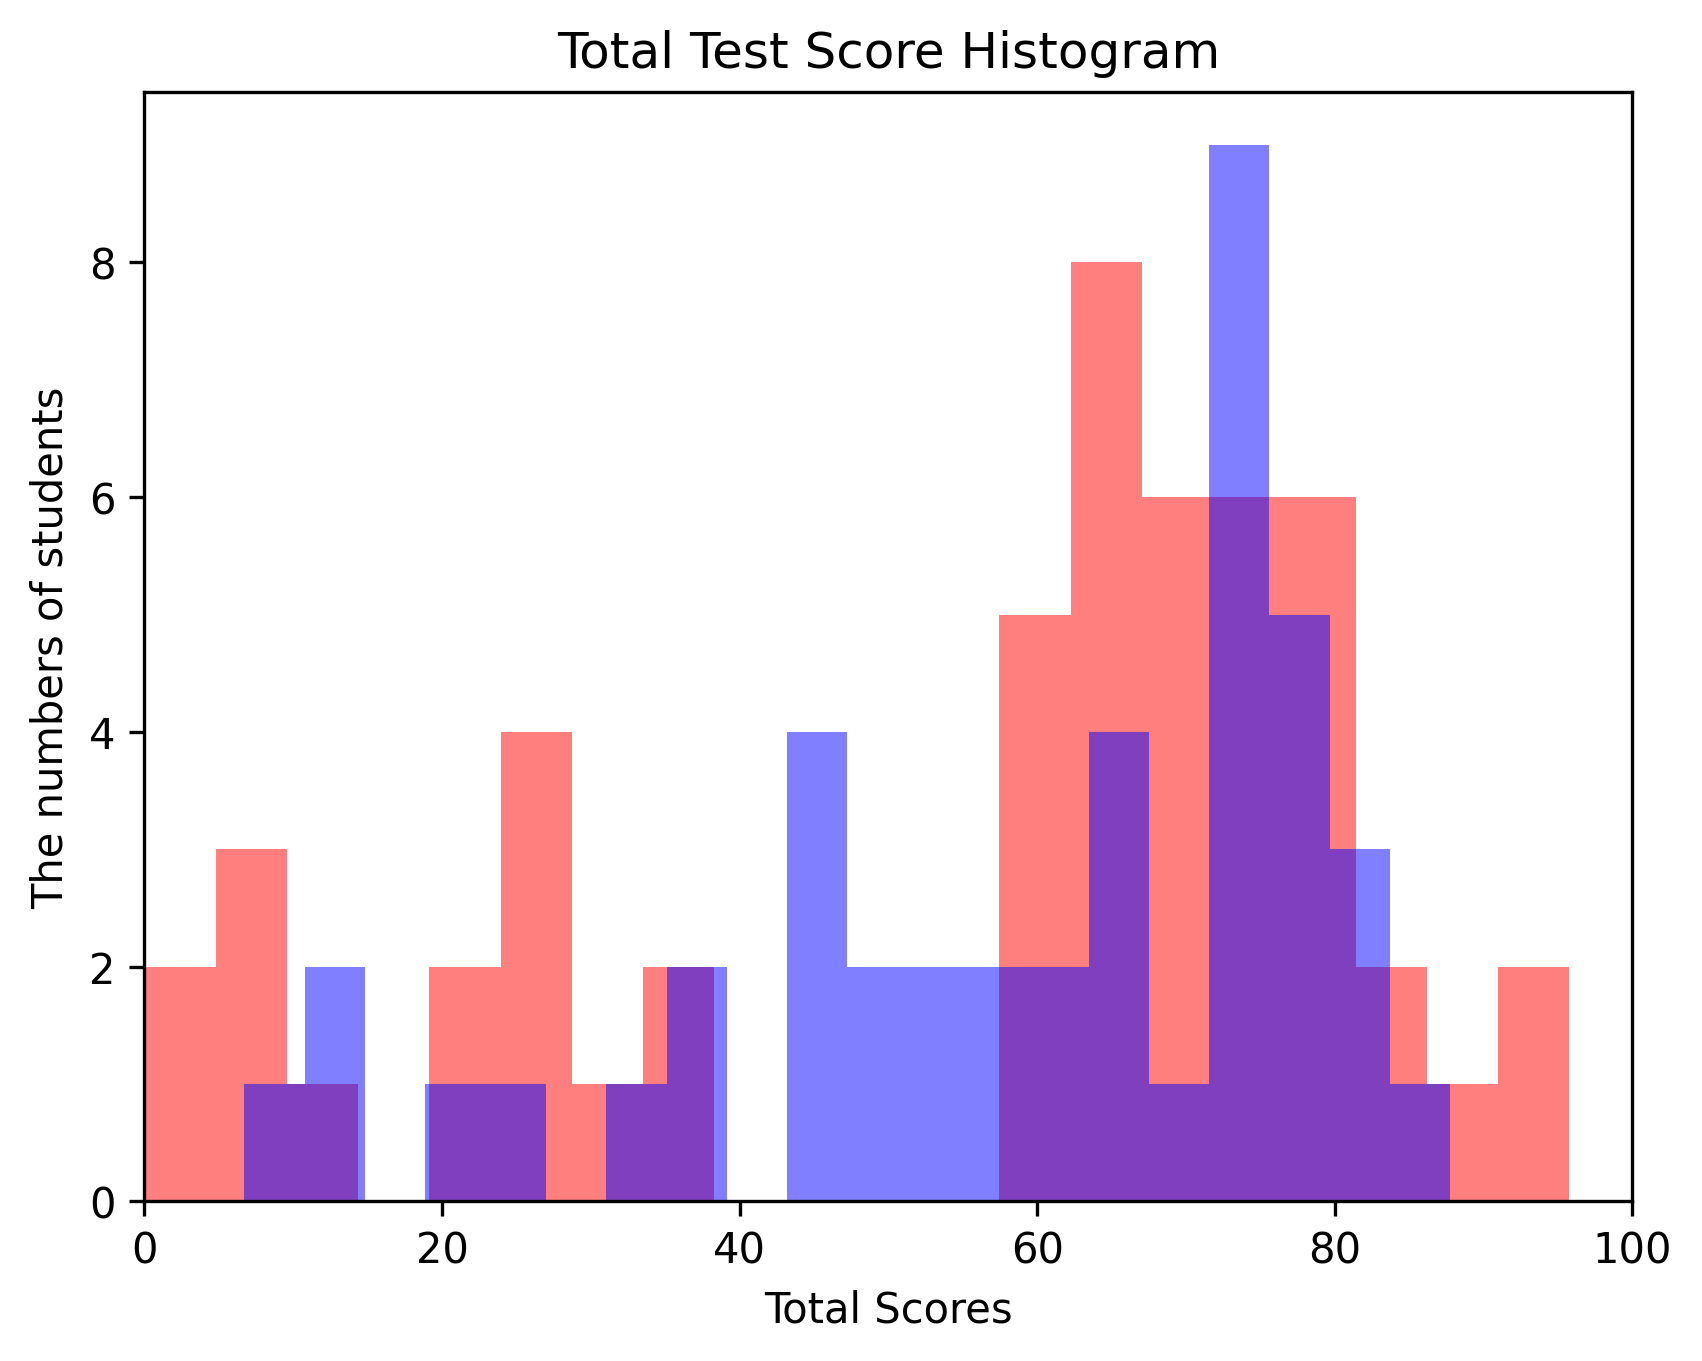
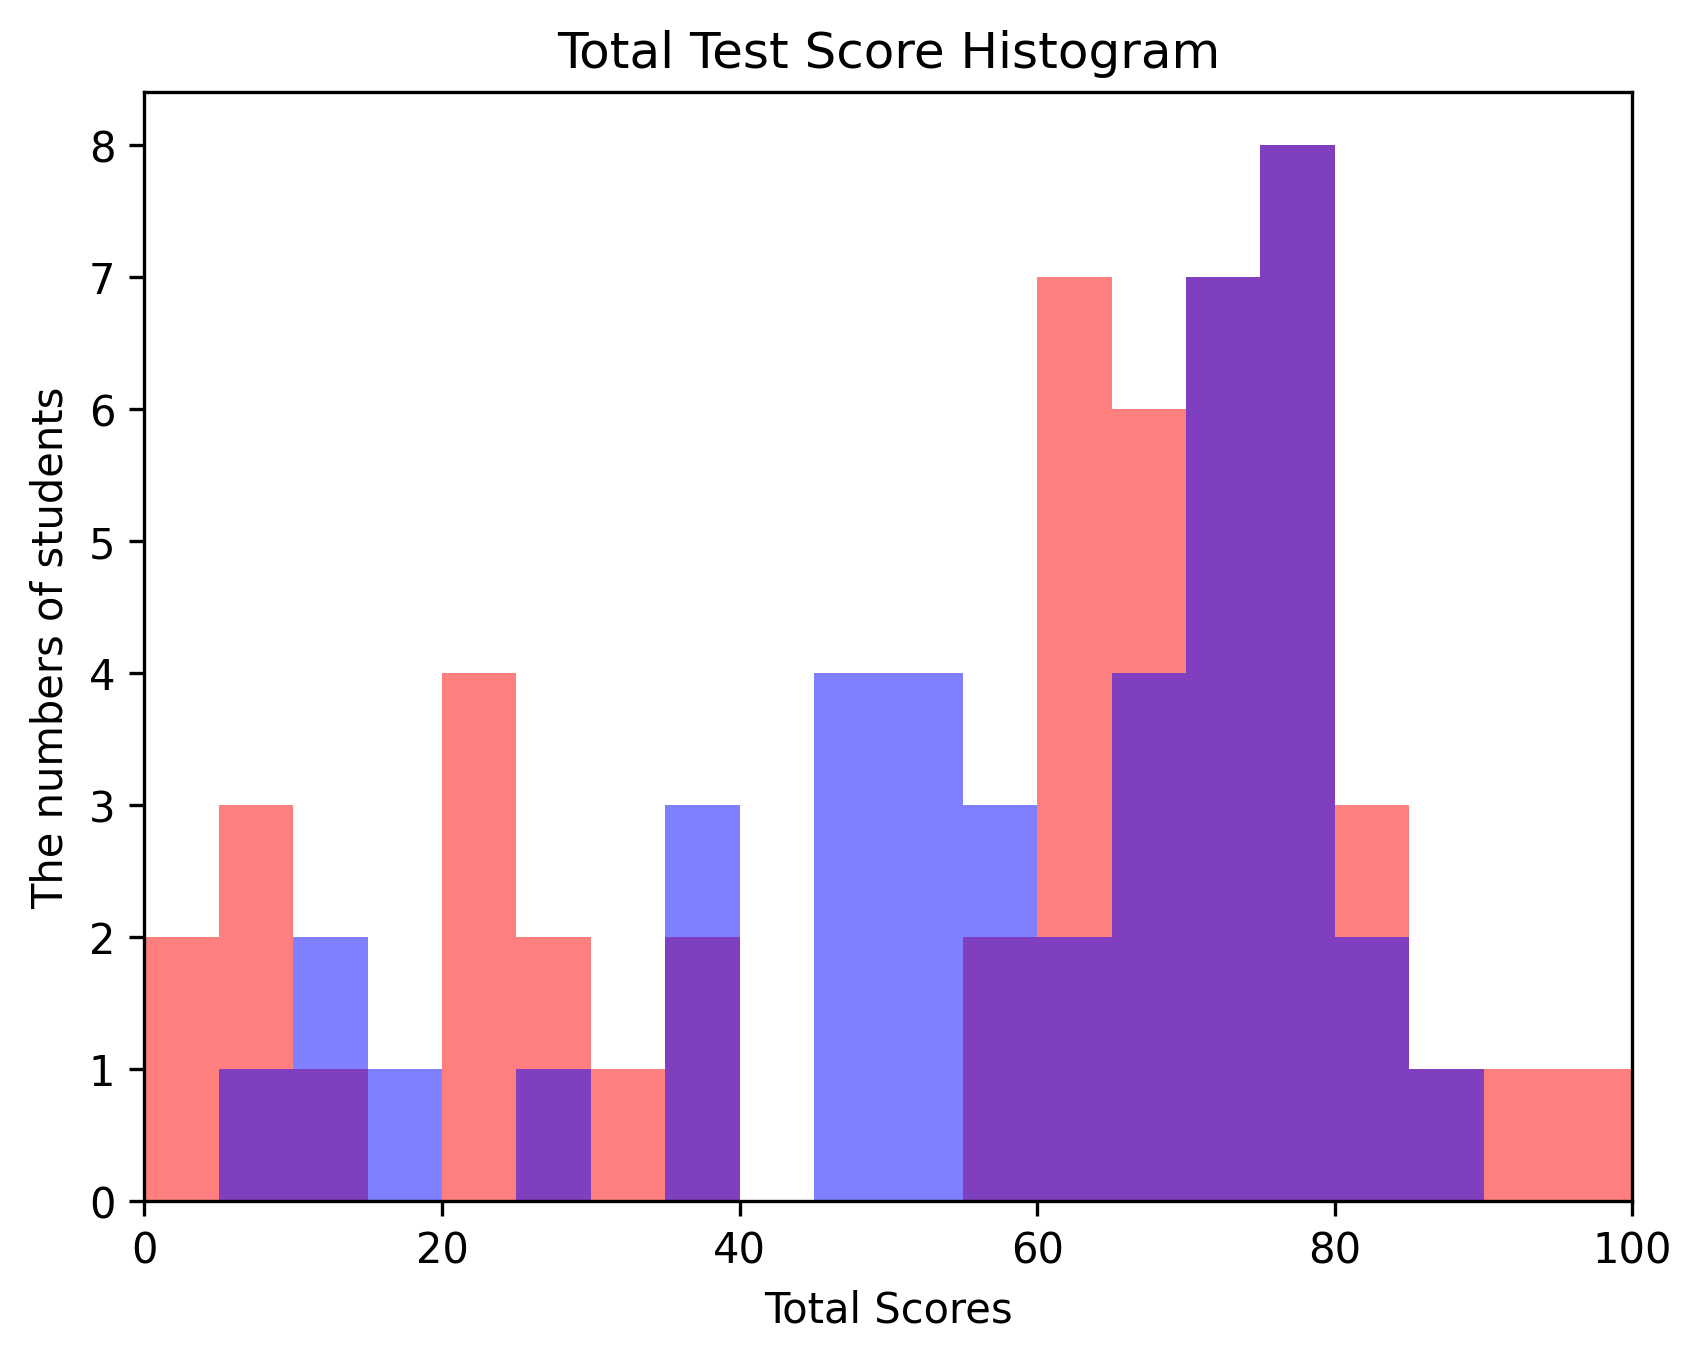
bin x axis align

diff --git a/Assignment 05/class_score_plot_skeleton.py b/Assignment 05/class_score_plot_skeleton.py
@@ -1,4 +1,5 @@
 import matplotlib.pyplot as plt
+import numpy as np
 
 def read_data(filename):
     data = []
@@ -38,14 +39,18 @@ if __name__ == '__main__':
 
     plt.show()
     
+    
 
     # TODO) Plot total scores as a histogram
 
+    plt.figure()
 
+    bin_width = 5
+    bins = np.arange(0, 101, bin_width)
 
     plt.title("Total Test Score Histogram")
-    plt.hist(total_kr,bins=20,label="Korean",color="red",alpha=0.5)
-    plt.hist(total_en,bins=20,label="English",color="blue",alpha=0.5)
+    plt.hist(total_kr,bins=bins,label="Korean",color="red",alpha=0.5)
+    plt.hist(total_en,bins=bins,label="English",color="blue",alpha=0.5)
     plt.xlabel("Total Scores")
     plt.ylabel("The numbers of students")
     plt.xlim(0,100)
